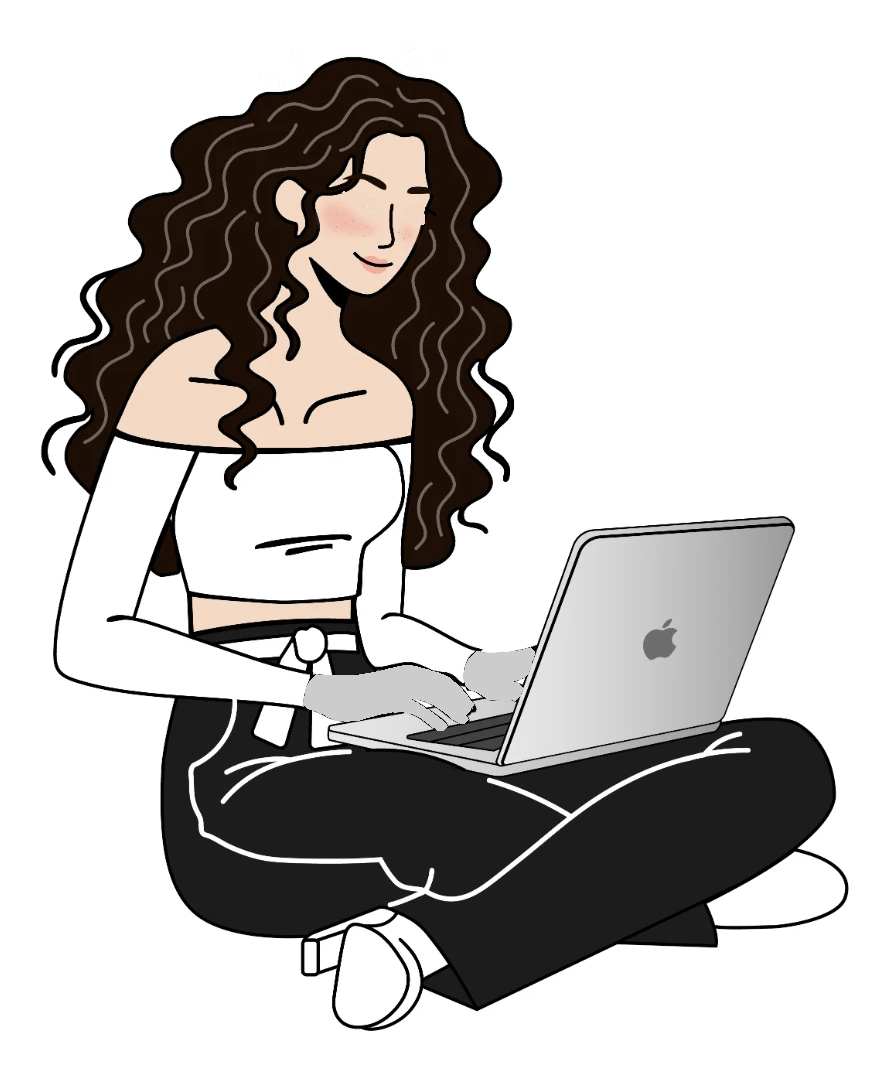
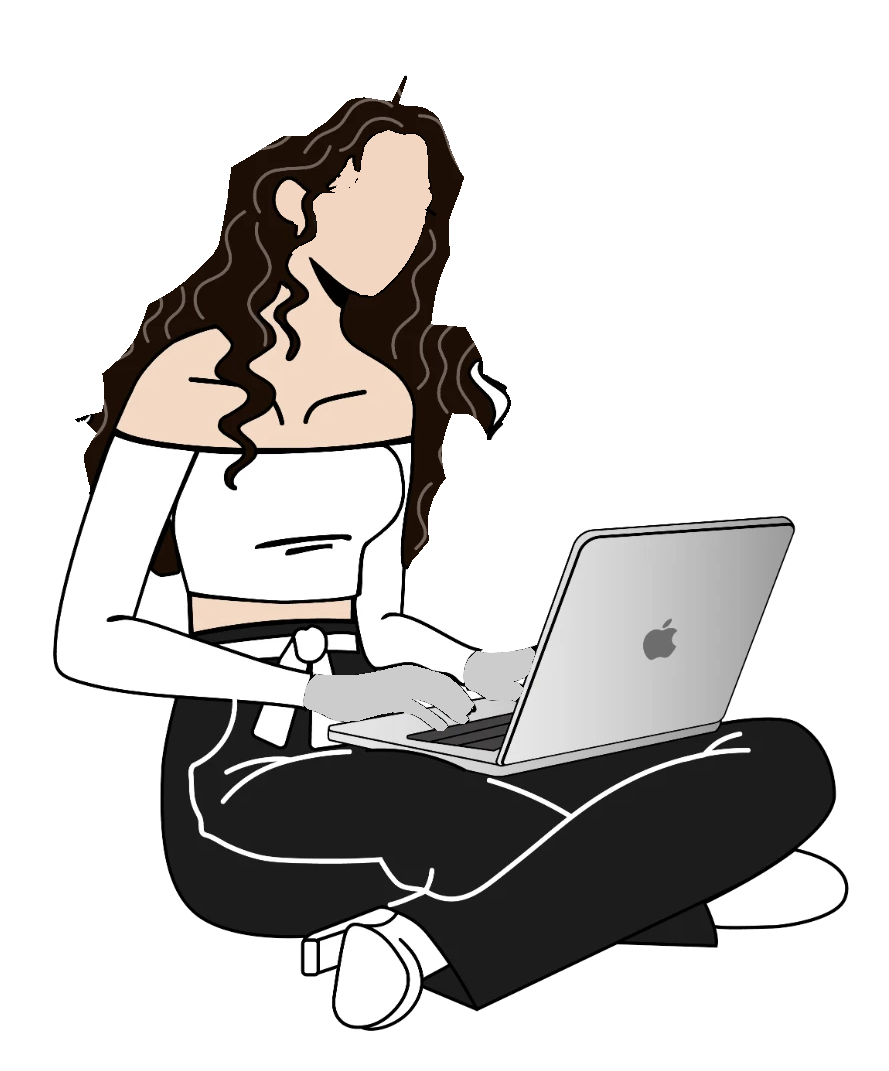
Loader (per Neama): a full typing loop before the site; she keeps typing as it fades, with no look-up. Uneven, larger taps, two blinks, the head tilts from the neck and the hair sways more. A soft floor shadow; character 240px, text 20px
The head is cut from her drawing, with flat skin under the face so the tilt never shows a second face; the outer hair is cleared from the base so the sway leaves no doubled curls.

Changed region(s): [[0.0304, 0.0308, 0.5771, 0.4622], [0.4556, 0.3697, 0.5771, 0.5546], [0.3341, 0.1232, 0.4252, 0.2157]]

diff --git a/src/components/Loader.module.css b/src/components/Loader.module.css
@@ -9,7 +9,7 @@
   justify-content: center;
   gap: 16px;
   background: var(--color-bg);
-  transition: opacity 0.6s ease;
+  transition: opacity 0.35s ease;
 }
 
 .fading {
@@ -19,13 +19,13 @@
 
 .character {
   display: block;
-  width: min(260px, 60vw);
+  width: min(240px, 60vw);
   aspect-ratio: 889 / 1071;
 }
 
 /* Typing: one 3s loop, in the drawing's own pixels (the SVG scales it).
-   The hands tap in turn, the hair sways from the crown, and she blinks
-   once (the eyes close to a tenth of their height). */
+   The hands tap unevenly, like typing words, the hair sways from the
+   crown, and she blinks twice (the eyes close to a tenth of their height). */
 .character image {
   transform-box: fill-box;
 }
@@ -56,82 +56,102 @@
   animation: blink 3s linear infinite;
 }
 
-/* Loaded: the typing stops and she looks up at the viewer. */
-.loaded .character image {
-  animation: none;
-}
-
-.gaze {
-  transition: transform 0.33s cubic-bezier(0.42, 0, 0.58, 1);
-}
-
-.loaded .gaze {
-  transform: translateY(-4px);
+/* Now and then she tilts her head a little, from the neck. */
+.head {
+  transform-box: view-box;
+  transform-origin: 360px 294px;
+  animation: tilt 3s infinite;
+  animation-timing-function: cubic-bezier(0.42, 0, 0.58, 1);
 }
 
 @keyframes tap-left {
   0% { transform: translateY(0px); }
-  3.333% { transform: translateY(3px); }
-  6.667% { transform: translateY(0px); }
-  16.667% { transform: translateY(0px); }
-  20% { transform: translateY(2px); }
-  23.333% { transform: translateY(0px); }
-  33.333% { transform: translateY(0px); }
-  36.667% { transform: translateY(3px); }
-  40% { transform: translateY(0px); }
-  50% { transform: translateY(0px); }
-  53.333% { transform: translateY(2.5px); }
-  56.667% { transform: translateY(0px); }
-  66.667% { transform: translateY(0px); }
-  70% { transform: translateY(3px); }
-  73.333% { transform: translateY(0px); }
-  83.333% { transform: translateY(0px); }
-  86.667% { transform: translateY(2px); }
-  90% { transform: translateY(0px); }
+  2.33% { transform: translateY(5px); }
+  5.33% { transform: translateY(0px); }
+  11% { transform: translateY(0px); }
+  13.33% { transform: translateY(4px); }
+  16.33% { transform: translateY(0px); }
+  28.33% { transform: translateY(0px); }
+  30.67% { transform: translateY(6px); }
+  33.67% { transform: translateY(0px); }
+  34% { transform: translateY(0px); }
+  36.33% { transform: translateY(4.5px); }
+  39.33% { transform: translateY(0px); }
+  43.33% { transform: translateY(0px); }
+  45.67% { transform: translateY(5.5px); }
+  48.67% { transform: translateY(0px); }
+  66.67% { transform: translateY(0px); }
+  69% { transform: translateY(4px); }
+  72% { transform: translateY(0px); }
+  76.67% { transform: translateY(0px); }
+  79% { transform: translateY(6px); }
+  82% { transform: translateY(0px); }
+  87.33% { transform: translateY(0px); }
+  89.67% { transform: translateY(5px); }
+  92.67% { transform: translateY(0px); }
   100% { transform: translateY(0px); }
 }
+
 @keyframes tap-right {
   0% { transform: translateY(0px); }
-  8.333% { transform: translateY(0px); }
-  11.667% { transform: translateY(2.5px); }
-  15% { transform: translateY(0px); }
-  25% { transform: translateY(0px); }
-  28.333% { transform: translateY(3px); }
-  31.667% { transform: translateY(0px); }
-  41.667% { transform: translateY(0px); }
-  45% { transform: translateY(2px); }
-  48.333% { transform: translateY(0px); }
-  58.333% { transform: translateY(0px); }
-  61.667% { transform: translateY(3px); }
-  65% { transform: translateY(0px); }
-  75% { transform: translateY(0px); }
-  78.333% { transform: translateY(2.5px); }
-  81.667% { transform: translateY(0px); }
-  91.667% { transform: translateY(0px); }
-  95% { transform: translateY(3px); }
-  98.333% { transform: translateY(0px); }
+  6% { transform: translateY(0px); }
+  8.33% { transform: translateY(4.5px); }
+  11.33% { transform: translateY(0px); }
+  15.67% { transform: translateY(0px); }
+  18% { transform: translateY(6px); }
+  21% { transform: translateY(0px); }
+  38.33% { transform: translateY(0px); }
+  40.67% { transform: translateY(5px); }
+  43.67% { transform: translateY(0px); }
+  47.33% { transform: translateY(0px); }
+  49.67% { transform: translateY(4px); }
+  52.67% { transform: translateY(0px); }
+  61.67% { transform: translateY(0px); }
+  64% { transform: translateY(5.5px); }
+  67% { transform: translateY(0px); }
+  70.67% { transform: translateY(0px); }
+  73% { transform: translateY(4.5px); }
+  76% { transform: translateY(0px); }
+  81.67% { transform: translateY(0px); }
+  84% { transform: translateY(5px); }
+  87% { transform: translateY(0px); }
   100% { transform: translateY(0px); }
 }
 
 @keyframes sway {
   0%,
+  50%,
   100% { transform: rotate(0deg); }
-  50% { transform: rotate(0.35deg); }
+  25% { transform: rotate(1.2deg); }
+  75% { transform: rotate(-1.2deg); }
+}
+
+@keyframes tilt {
+  0%,
+  20%,
+  60%,
+  100% { transform: rotate(0deg); }
+  35%,
+  48% { transform: rotate(-2.5deg); }
+  78% { transform: rotate(1.2deg); }
 }
 
 @keyframes blink {
   0%,
-  86.667%,
-  92.222%,
+  33.333%,
+  39.444%,
+  83.333%,
+  89.444%,
   100% { transform: scaleY(1); }
-  89.444% { transform: scaleY(0.1); }
+  36.389%,
+  86.389% { transform: scaleY(0.1); }
 }
 
 /* Set like the dispatch tag (JetBrains Mono), kept in lowercase. */
 .text {
   margin: 0;
   font-family: var(--font-mono);
-  font-size: var(--tag-size);
+  font-size: 20px;
   letter-spacing: var(--tag-tracking);
   color: var(--color-frame);
   white-space: nowrap;
@@ -167,12 +187,12 @@
 
 /* Reduced motion: a still frame, dots at rest, no fade. */
 @media (prefers-reduced-motion: reduce) {
-  .loader,
-  .gaze {
+  .loader {
     transition: none;
   }
 
   .character image,
+  .head,
   .dots span {
     animation: none;
   }

diff --git a/src/components/Loader.jsx b/src/components/Loader.jsx
@@ -1,5 +1,6 @@
 import { useEffect, useState } from 'react';
 import body from '../assets/loader/parts/body.png';
+import head from '../assets/loader/parts/head.png';
 import hair from '../assets/loader/parts/hair.png';
 import laptop from '../assets/loader/parts/laptop.png';
 import handLeft from '../assets/loader/parts/hand_left.png';
@@ -8,25 +9,20 @@ import eyes from '../assets/loader/parts/eyes.png';
 import butterflies from '../assets/loader/parts/butterflies.png';
 import styles from './Loader.module.css';
 
-// Neama's character types while the page loads, then looks up at the
-// viewer and the whole layer fades out. Shown once per visit: the flag is
+// Neama's character types while the page loads, and the whole layer fades
+// out around her as she keeps typing. Shown once per visit: the flag is
 // kept for the tab's session, so moving between projects never shows it.
 const SEEN = 'loader-seen';
-const MIN_SHOW = 1500;
-const LOOK_UP = 700; // the look-up, before the fade
-const FADE = 600;
+const MIN_SHOW = 3000; // one full typing loop, blink included
+const FADE = 350;
 
 // Her layers, cut from the illustration, each placed where it sits in the
-// 889×1071 drawing (bottom to top).
-const LAYERS = [
-  { src: body, x: 0, y: 0, w: 889, h: 1071 },
-  { src: hair, x: 42, y: 57, w: 471, h: 512, className: styles.hair },
-  { src: laptop, x: 328, y: 516, w: 467, h: 260 },
-  { src: handLeft, x: 303, y: 665, w: 171, h: 66, className: styles.handLeft },
-  { src: handRight, x: 464, y: 647, w: 71, h: 54, className: styles.handRight },
-  { src: eyes, x: 342, y: 191, w: 83, h: 34, className: styles.eyes, group: styles.gaze },
-  { src: butterflies, x: 253, y: 38, w: 188, h: 52 },
-];
+// 889×1071 drawing. The head, hair, eyes and clips tilt together from the
+// neck; the base under the face is flat skin, so the tilt never shows a
+// second face.
+const layer = (src, x, y, w, h, className) => (
+  <image href={src} x={x} y={y} width={w} height={h} className={className} />
+);
 
 function alreadySeen() {
   try {
@@ -53,15 +49,11 @@ export default function Loader() {
     if (phase === 'loading') {
       let cancelled = false;
       pageReady().then(() => {
-        if (!cancelled) setPhase('loaded');
+        if (!cancelled) setPhase('fading');
       });
       return () => {
         cancelled = true;
       };
-    }
-    if (phase === 'loaded') {
-      const t = setTimeout(() => setPhase('fading'), LOOK_UP);
-      return () => clearTimeout(t);
     }
     if (phase === 'fading') {
       try {
@@ -79,25 +71,29 @@ export default function Loader() {
 
   return (
     <div
-      className={`${styles.loader} ${phase !== 'loading' ? styles.loaded : ''} ${
-        phase === 'fading' ? styles.fading : ''
-      }`}
+      className={`${styles.loader} ${phase === 'fading' ? styles.fading : ''}`}
       role="status"
       aria-label="loading dispatch factory"
     >
       <svg className={styles.character} viewBox="0 0 889 1071" aria-hidden="true">
-        {LAYERS.map(({ src, x, y, w, h, className, group }) => {
-          const image = (
-            <image key={src} href={src} x={x} y={y} width={w} height={h} className={className} />
-          );
-          return group ? (
-            <g key={src} className={group}>
-              {image}
-            </g>
-          ) : (
-            image
-          );
-        })}
+        {/* A soft shadow on the floor under her. */}
+        <defs>
+          <radialGradient id="loader-shadow">
+            <stop offset="0" stopColor="#000" stopOpacity="0.28" />
+            <stop offset="1" stopColor="#000" stopOpacity="0" />
+          </radialGradient>
+        </defs>
+        <ellipse cx="505" cy="955" rx="400" ry="48" fill="url(#loader-shadow)" />
+        {layer(body, 0, 0, 889, 1071)}
+        <g className={styles.head}>
+          {layer(head, 264, 116, 186, 184)}
+          {layer(hair, 42, 57, 471, 512, styles.hair)}
+          {layer(eyes, 342, 191, 83, 34, styles.eyes)}
+          {layer(butterflies, 253, 38, 188, 52)}
+        </g>
+        {layer(laptop, 328, 516, 467, 260)}
+        {layer(handLeft, 303, 665, 171, 66, styles.handLeft)}
+        {layer(handRight, 464, 647, 71, 54, styles.handRight)}
       </svg>
       <p className={styles.text} aria-hidden="true">
         loading dispatch factory
